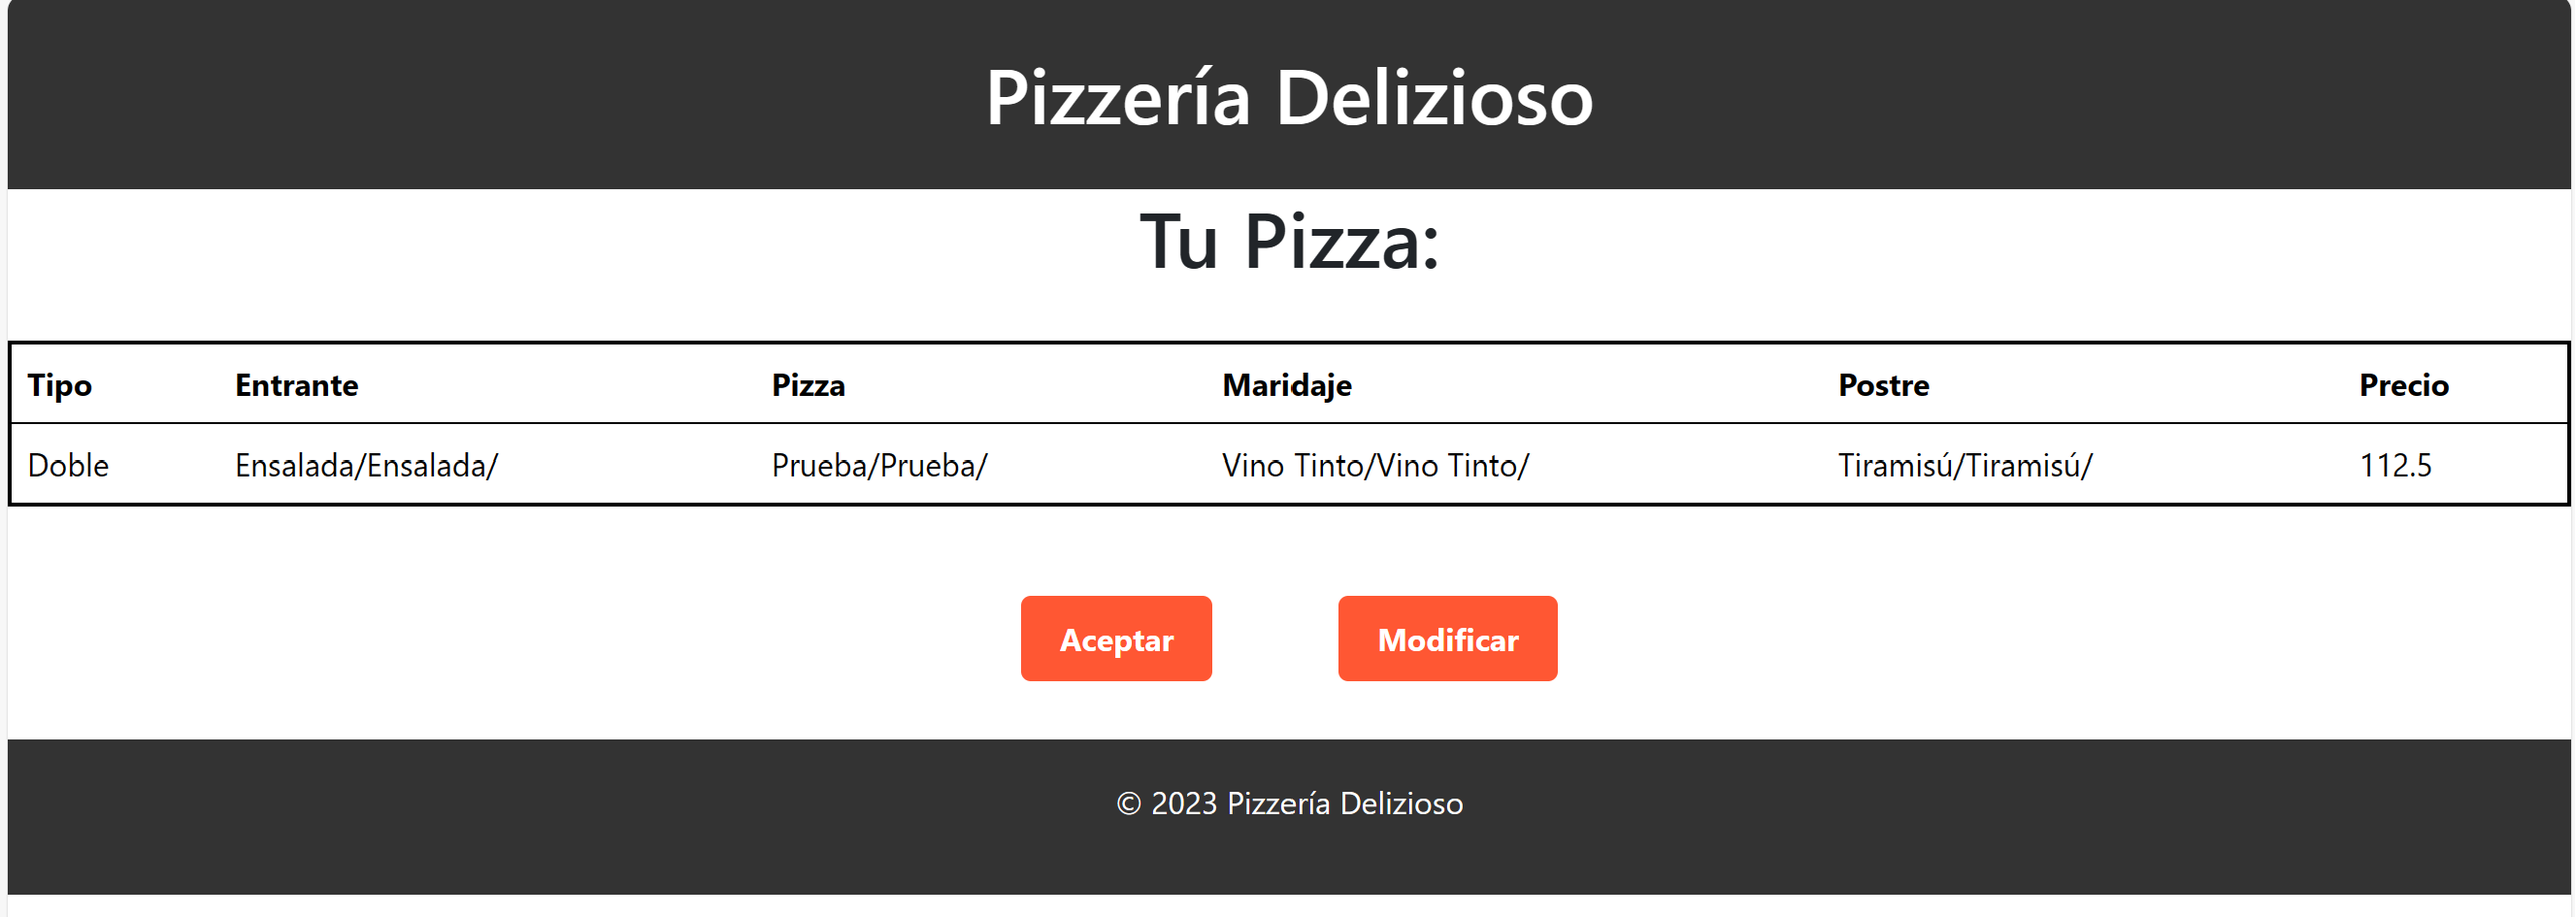
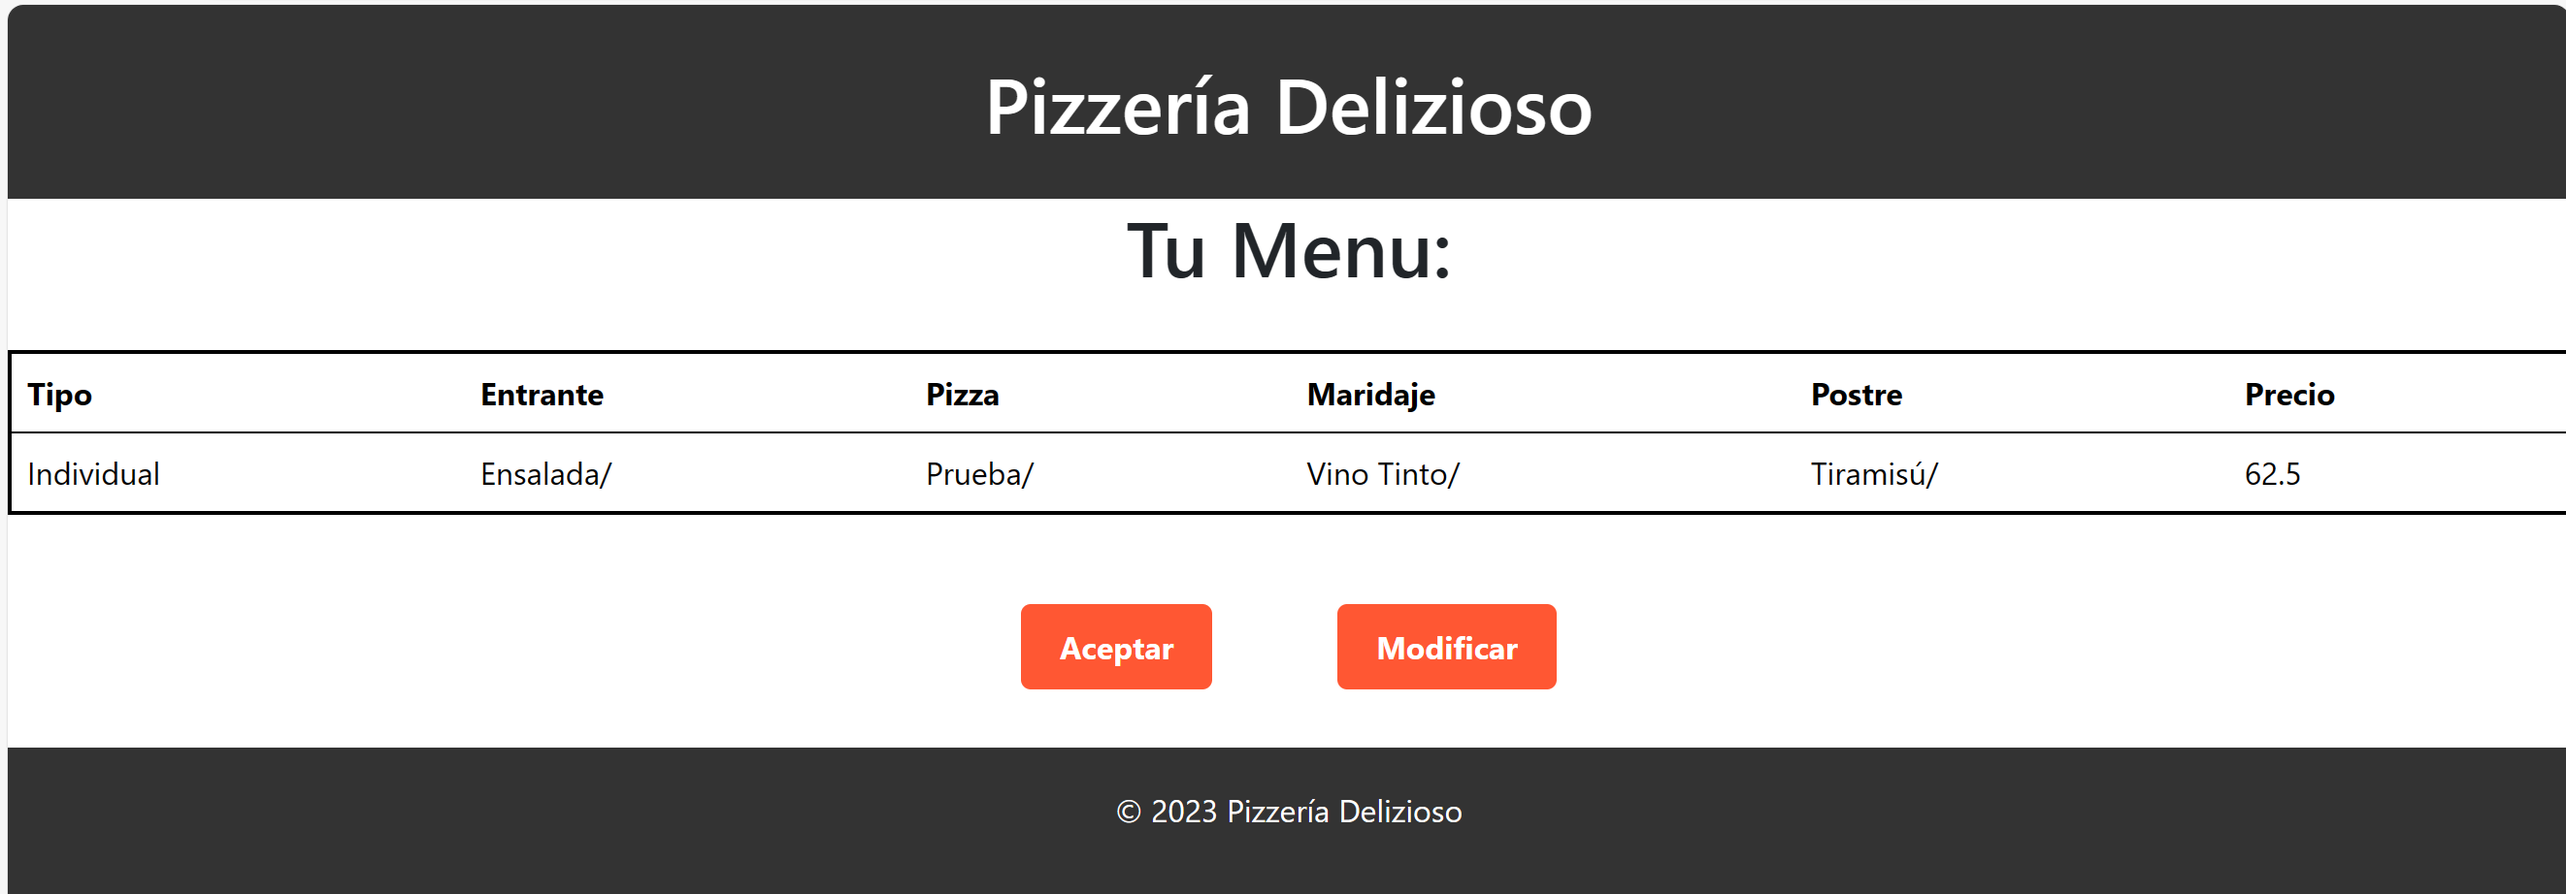
imagen correcta

diff --git a/pizzeriaweb/pizzeriawebapp/templates/pizzeriawebapp/comprobacion_menu.html b/pizzeriaweb/pizzeriawebapp/templates/pizzeriawebapp/comprobacion_menu.html
@@ -15,7 +15,7 @@
         </div>
     </header>
 
-    <h1 style="align-items: center; text-align: center; margin: auto;">Tu Pizza:</h1>
+    <h1 style="align-items: center; text-align: center; margin: auto;">Tu Menu:</h1>
 
     <!-- Aquí va la tabla -->
     <table class="table" style="border: 2px solid black; margin-top: 30px;">
